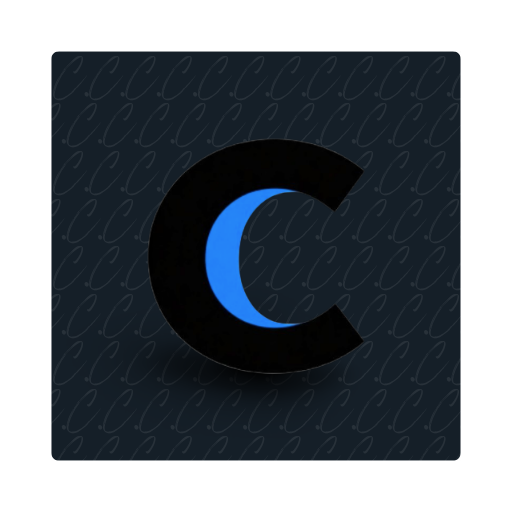
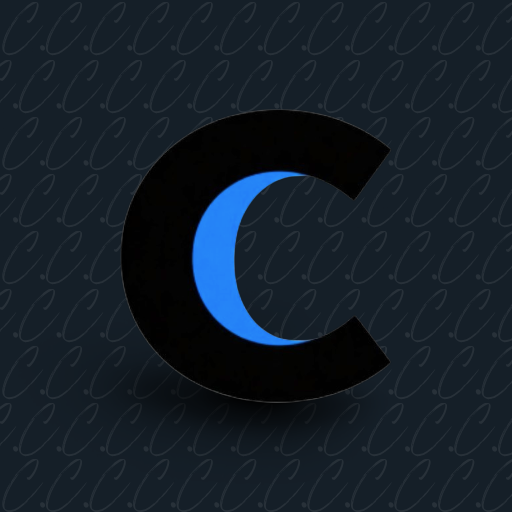
ajout vigniette

diff --git a/index.html b/index.html
@@ -1140,9 +1140,7 @@
                 style={{ display:"flex", alignItems:"center", gap:12, padding:"10px 16px", textDecoration:"none", color:"rgba(255,255,255,0.85)" }}
                 onMouseOver={e => e.currentTarget.style.background="rgba(255,255,255,0.06)"}
                 onMouseOut={e  => e.currentTarget.style.background="transparent"}>
-                <div style={{ width:32, height:32, borderRadius:8, background:"#8dc63f", display:"flex", alignItems:"center", justifyContent:"center", flexShrink:0 }}>
-                  <span style={{ fontSize:11, fontWeight:900, color:"#1a1a2e" }}>AE</span>
-                </div>
+                <div style={{ width:32, height:32, borderRadius:"50%", background:"#1a1a2e", overflow:"hidden", flexShrink:0, display:"flex", alignItems:"center", justifyContent:"center" }}><img src="https://cotecars-test.vercel.app/vignette-AE.png" alt="AutoEasy" style={{ width:"100%", height:"100%", objectFit:"contain" }} /></div>
                 <div>
                   <div style={{ fontSize:13, fontWeight:700, color:"white" }}>AutoEasy</div>
                   
@@ -1153,7 +1151,7 @@
                 style={{ display:"flex", alignItems:"center", gap:12, padding:"10px 16px", textDecoration:"none", color:"rgba(255,255,255,0.85)" }}
                 onMouseOver={e => e.currentTarget.style.background="rgba(255,255,255,0.06)"}
                 onMouseOut={e  => e.currentTarget.style.background="transparent"}>
-                <img src="https://cotecars-test.vercel.app/vignette-cotecars.png" alt="CoteCars" style={{ width:32, height:32, borderRadius:"50%", objectFit:"cover", flexShrink:0 }} />
+                <div style={{ width:32, height:32, borderRadius:"50%", background:"#0f1729", overflow:"hidden", flexShrink:0, display:"flex", alignItems:"center", justifyContent:"center" }}><img src="https://cotecars-test.vercel.app/vignette-cotecars.png" alt="CoteCars" style={{ width:"100%", height:"100%", objectFit:"contain" }} /></div>
                 <div>
                   <div style={{ fontSize:13, fontWeight:700, color:"white" }}>CoteCars</div>
                   
@@ -3514,11 +3512,11 @@ Réponds UNIQUEMENT avec un objet JSON valide, sans markdown, sans texte avant o
                     </div>
                   </button>
                   <a href="/partner.html" style={{ width:"100%", display:"flex", alignItems:"center", gap:14, padding:"14px 20px", textDecoration:"none", borderBottom:"0.5px solid var(--border)" }}>
-                    <div style={{ width:32, height:32, borderRadius:8, background:"#8dc63f", display:"flex", alignItems:"center", justifyContent:"center", flexShrink:0 }}><span style={{ fontSize:11, fontWeight:900, color:"#1a1a2e" }}>AE</span></div>
+                    <div style={{ width:32, height:32, borderRadius:"50%", background:"#1a1a2e", overflow:"hidden", flexShrink:0, display:"flex", alignItems:"center", justifyContent:"center" }}><img src="https://cotecars-test.vercel.app/vignette-AE.png" alt="AutoEasy" style={{ width:"100%", height:"100%", objectFit:"contain" }} /></div>
                     <div><p style={{ margin:0, fontSize:14, fontWeight:700, color:"#8dc63f" }}>AutoEasy</p></div>
                   </a>
                   <a href="/partner-esdfx.html" style={{ width:"100%", display:"flex", alignItems:"center", gap:14, padding:"14px 20px", textDecoration:"none", borderBottom:"0.5px solid var(--border)" }}>
-                    <img src="https://cotecars-test.vercel.app/vignette-cotecars.png" alt="CoteCars" style={{ width:32, height:32, borderRadius:"50%", objectFit:"cover", flexShrink:0 }} />
+                    <div style={{ width:32, height:32, borderRadius:"50%", background:"#0f1729", overflow:"hidden", flexShrink:0, display:"flex", alignItems:"center", justifyContent:"center" }}><img src="https://cotecars-test.vercel.app/vignette-cotecars.png" alt="CoteCars" style={{ width:"100%", height:"100%", objectFit:"contain" }} /></div>
                     <div><p style={{ margin:0, fontSize:14, fontWeight:700, color:"#60a5fa" }}>CoteCars</p></div>
                   </a>
                   {user ? (

diff --git a/partner-esdfx.html b/partner-esdfx.html
@@ -232,7 +232,7 @@
           <div className="login-right" style={{ background:"white", padding:"48px 40px", display:"flex", flexDirection:"column", justifyContent:"center" }}>
             <div className="login-form" style={{ maxWidth:340, width:"100%" }}>
               <div style={{ display:"flex", alignItems:"center", gap:10, marginBottom:20 }}>
-                <img src={COTECARS_LOGO_B64} alt="CoteCars" style={{ width:36, height:36, borderRadius:"50%", objectFit:"cover" }} />
+                <div style={{ width:36, height:36, borderRadius:"50%", background:"#0f1729", overflow:"hidden", display:"flex", alignItems:"center", justifyContent:"center" }}><img src={COTECARS_LOGO_B64} alt="CoteCars" style={{ width:"100%", height:"100%", objectFit:"contain" }} /></div>
                 <div>
                   <div style={{ fontSize:15, fontWeight:700, color:"#111" }}>CoteCars</div>
                   <div style={{ fontSize:11, color:"#9ca3af" }}>Espace Personnel</div>
@@ -288,7 +288,7 @@
           <div className="sidebar-anim" style={{ position:"relative", width:240, background:"#0f1729", height:"100%", display:"flex", flexDirection:"column", borderRight:"2px solid #3b82f6", zIndex:401, flexShrink:0 }}>
             <div style={{ padding:"0 16px", height:52, display:"flex", alignItems:"center", justifyContent:"space-between", borderBottom:"1px solid rgba(255,255,255,0.08)" }}>
               <div style={{ display:"flex", alignItems:"center", gap:10 }}>
-                <img src={COTECARS_LOGO_B64} alt="CoteCars" style={{ width:28, height:28, borderRadius:"50%", objectFit:"cover", flexShrink:0 }} />
+                <div style={{ width:28, height:28, borderRadius:"50%", background:"#0f1729", overflow:"hidden", flexShrink:0, display:"flex", alignItems:"center", justifyContent:"center" }}><img src={COTECARS_LOGO_B64} alt="CoteCars" style={{ width:"100%", height:"100%", objectFit:"contain" }} /></div>
                 <div>
                   <div style={{ fontSize:13, fontWeight:700, color:"white", lineHeight:1.2 }}>CoteCars</div>
                   <div style={{ fontSize:10, color:"rgba(255,255,255,0.3)" }}>Espace Personnel</div>
@@ -338,7 +338,7 @@
               <div style={{ height:2, background:"white", borderRadius:2 }} />
             </button>
             <a href="/" style={{ display:"flex", alignItems:"center", gap:8, textDecoration:"none" }}>
-              <img src={COTECARS_LOGO_B64} alt="CoteCars" style={{ width:28, height:28, borderRadius:"50%", objectFit:"cover", flexShrink:0 }} />
+              <div style={{ width:28, height:28, borderRadius:"50%", background:"#0f1729", overflow:"hidden", flexShrink:0, display:"flex", alignItems:"center", justifyContent:"center" }}><img src={COTECARS_LOGO_B64} alt="CoteCars" style={{ width:"100%", height:"100%", objectFit:"contain" }} /></div>
               <span className="ae-header-title" style={{ fontSize:14, fontWeight:700, color:"white" }}>CoteCars Studio</span>
             </a>
             <span className="ae-header-sub" style={{ fontSize:11, color:"rgba(255,255,255,0.35)" }}>/ {title}</span>
@@ -830,7 +830,7 @@
                             borderRadius:10, background:cachePlaque===opt.id ? (opt.id==="autoeasy" ? "rgba(141,198,63,0.09)" : "rgba(59,130,246,0.09)") : "white",
                             cursor:"pointer", fontFamily:"inherit", transition:"all 0.15s",
                           }}>
-                          <img src={opt.img} alt={opt.label} style={{ width:28, height:28, borderRadius:"50%", objectFit:"cover", flexShrink:0 }} />
+                          <div style={{ width:28, height:28, borderRadius:"50%", background:opt.id==="autoeasy"?"transparent":"#0f1729", overflow:"hidden", flexShrink:0, display:"flex", alignItems:"center", justifyContent:"center" }}><img src={opt.img} alt={opt.label} style={{ width:"100%", height:"100%", objectFit:"contain" }} /></div>
                           <div style={{ textAlign:"left" }}>
                             <div style={{ fontSize:12, fontWeight:700, color:cachePlaque===opt.id ? "#111" : "#6b7280" }}>{opt.label}</div>
                           </div>
@@ -997,7 +997,7 @@
 
       if (loading) return (
         <div style={{ minHeight:"100vh", background:"#0f1729", display:"flex", alignItems:"center", justifyContent:"center", flexDirection:"column", gap:16 }}>
-          <img src={COTECARS_LOGO_B64} alt="CoteCars" style={{ width:44, height:44, borderRadius:"50%", objectFit:"cover" }} />
+          <div style={{ width:44, height:44, borderRadius:"50%", background:"#0f1729", overflow:"hidden", display:"flex", alignItems:"center", justifyContent:"center" }}><img src={COTECARS_LOGO_B64} alt="CoteCars" style={{ width:"100%", height:"100%", objectFit:"contain" }} /></div>
           <div className="spinner" />
         </div>
       );